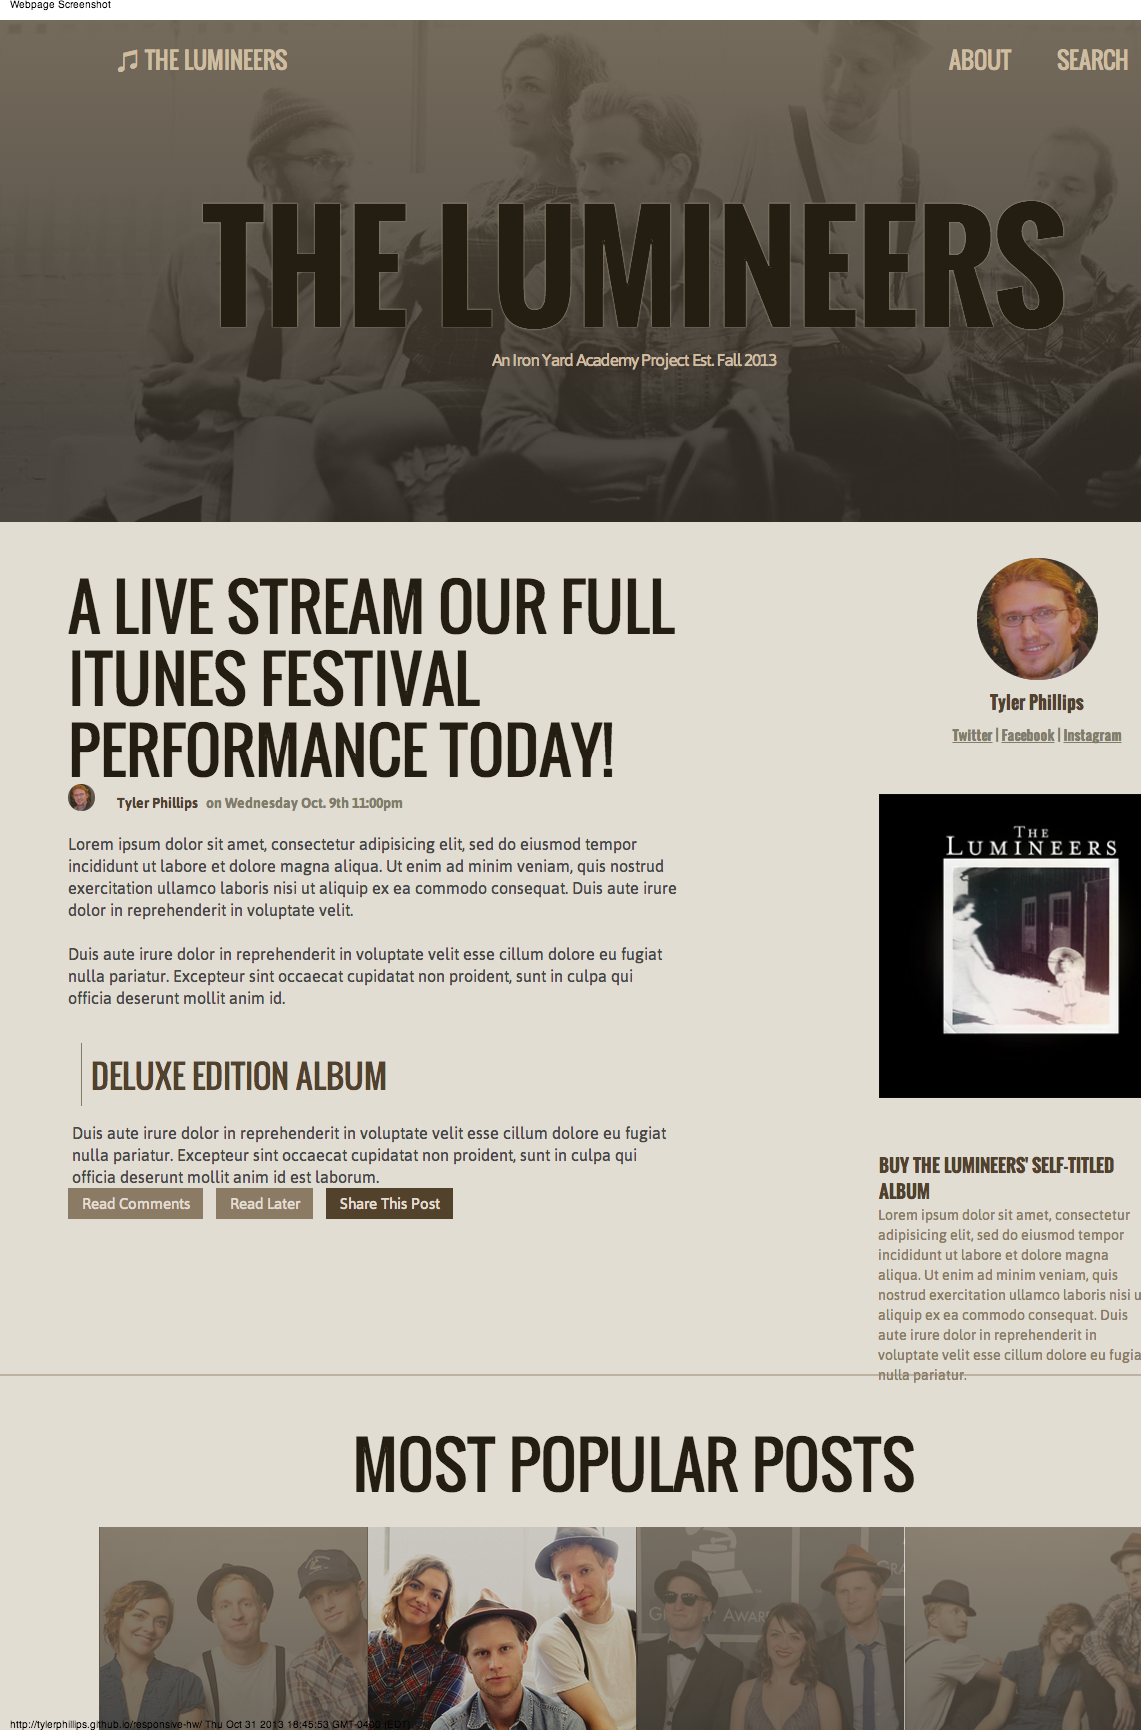
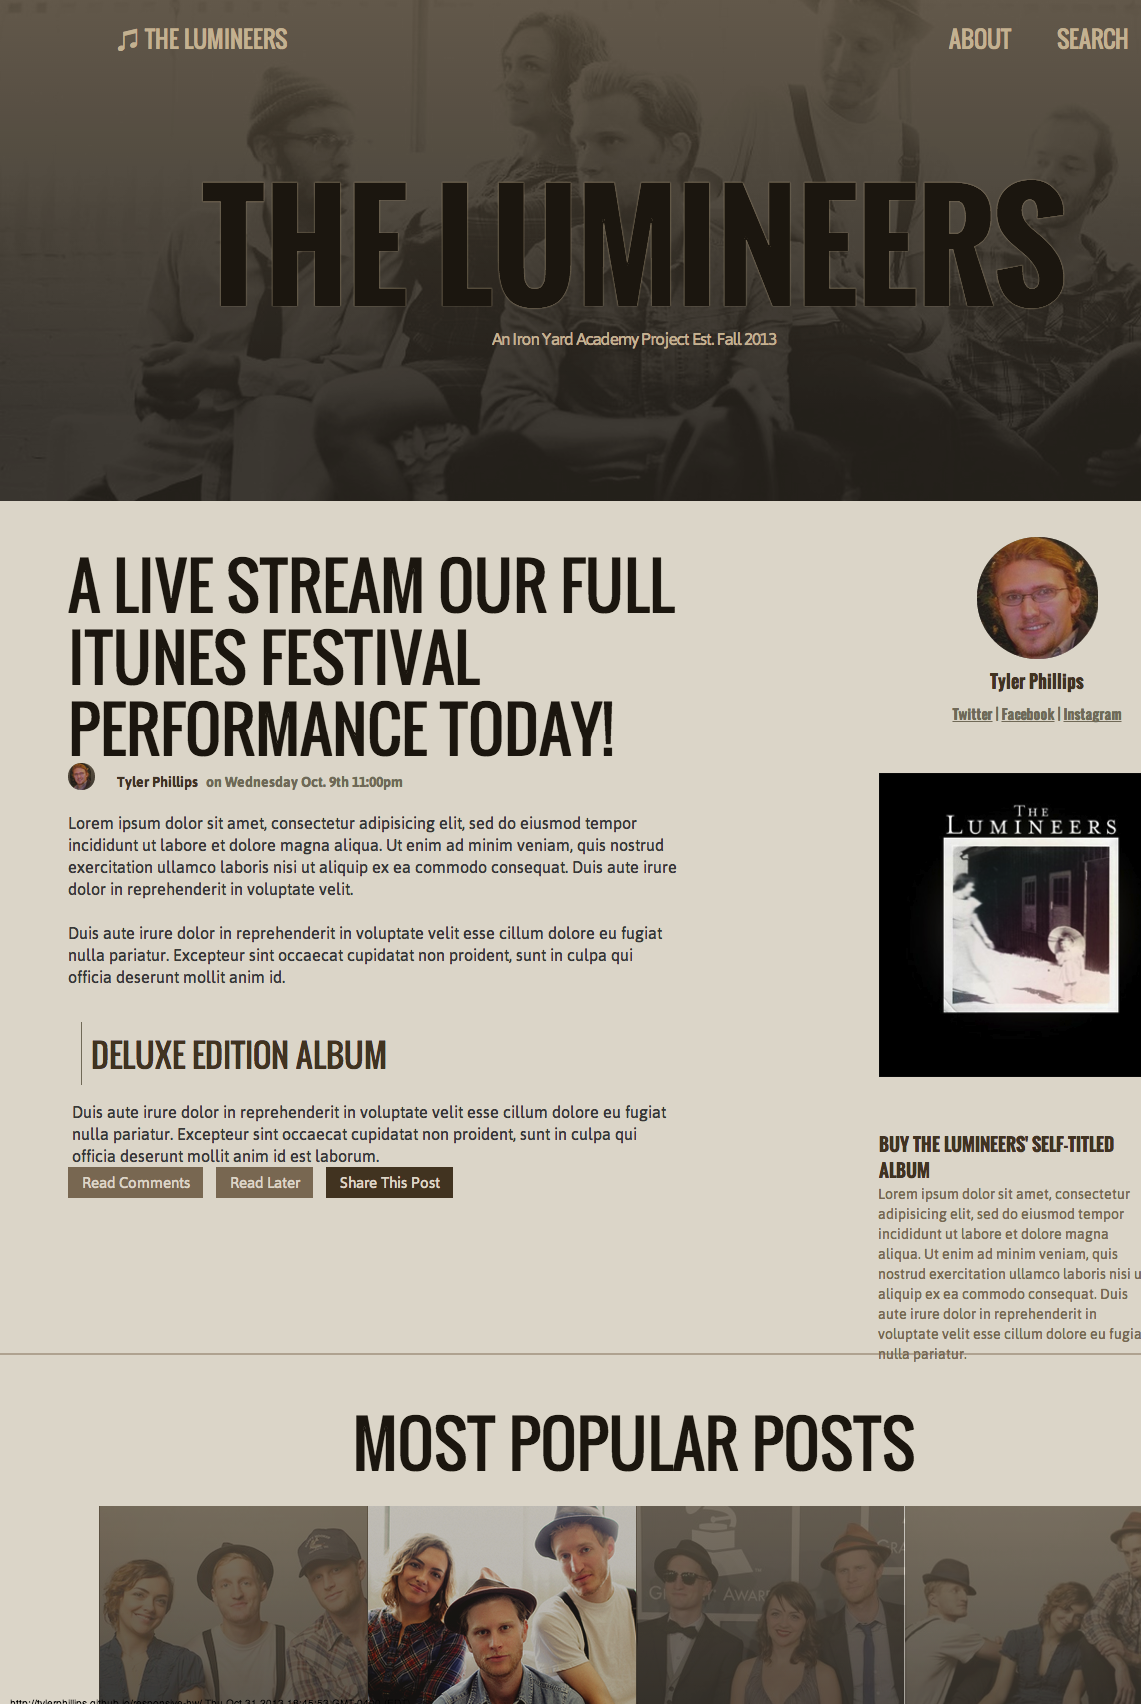
Added web examples

diff --git a/app/index.html b/app/index.html
@@ -13,6 +13,7 @@
         <!-- build:css(.tmp) styles/main.css -->
         <link rel="stylesheet" href="styles/main.css">
         <link rel="stylesheet" href="styles/mystyles.css">
+        <link rel="stylesheet" href="styles/userprofile.css">
         <!-- endbuild -->
         <link href='http://fonts.googleapis.com/css?family=Varela+Round' rel='stylesheet' type='text/css'>
 
@@ -30,8 +31,10 @@
             
 
             <div class="jumbotron">
+                <div class="cover">
                 <h1>Tyler Phillips</h1>
-                <img src="images/tylerphillips.jpg" class="avatar">
+              </div>
+                <!-- <img src="images/tylerphillips.jpg" class="avatar"> -->
                                 <p class="get-in-touch">The easiest way to contact me is through email at</p>
 
                                 <a href="tylerphillips@gmail.com" class="email">tylerfphillips@gmail.com</a>
@@ -63,7 +66,25 @@
                         <h4 class="modal-title" id="myModalLabel"><img src="images/irylogo.png" class="irylogo"><!-- <p>Iron Yard Projects</p> --></h4>
                       </div>
                       <div class="modal-body">
-                        <div class="content">
+                        The following projects were completed during my time at the Iron Yard and can all be found on Github.
+                        <ul class="slide-list">
+                          <li>
+                            <img alt="Spotify Visual Lyrics" src="images/finalproject.png" />
+                          </li>
+                          <li>
+                            <img alt="The Lumineers Responsive CSS" src="images/TheLumineersResponsiveCSS.png" />
+                          </li>
+                          <li>
+                            <img alt="Mobber CSS Practice" src="images/Mobber.png" />
+                          </li>
+                          <li>
+                            <img alt="Git-Smack Chat Program" src="images/chatprogram.png" />
+                          </li>
+                          <li>
+                            <img alt="Celebrity Matchmaker Application" src="images/Celebrity-Match.png" />
+                          </li>
+                        </ul>
+                        <!-- <div class="content">
                             <div id="my-projects">
                               <a href="https://github.com/tylerphillips/final-project"> <img src="images/finalproject.png" alt="Spotify Visual Lyrics" class="final-project"><p class="project-titles">Spotify Visual Lyrics</p></a>
                               <a href="https://github.com/tylerphillips/responsive-hw"> <img src="images/TheLumineersResponsiveCSS.png" alt="The Lumineers Responsive Work" class="responsive-hw"><p class="project-titles">The Lumineers Responsive Work</p></a>
@@ -71,16 +92,18 @@
                               <a href="#"> <img src="images/chatprogram.png" alt="Git-Smack Chat App" class="git-smack"><p class="project-titles">Git-Smack Chat App</p></a>
                               <a href="https://github.com/alisonelizabeth/matchmakerApp"> <img src="images/Celebrity-Match.png" alt="Celebrity Matchmaker App" class="matchmaker"><p class="project-titles">Celebrity Matchmaker App</p></a>
                             </div>
-                        </div>
+                        </div> -->
                       </div>
                       <div class="modal-footer">
                         <button type="button" class="btn btn-primary btn-lg" data-dismiss="modal">Close</button>
                       </div>
+
                     </div><!-- /.modal-content -->
                   </div><!-- /.modal-dialog -->
                 </div><!-- /.modal -->
-            </div>
 
+            </div>
+            
             <!-- <div class="content">
                 <div id="my-projects">
                   <a href="https://github.com/tylerphillips/final-project"> <img src="images/finalproject.png" alt="Spotify Visual Lyrics" class="final-project"><p>Spotify Visual Lyrics</p></a>
@@ -112,8 +135,7 @@
 
         <!-- build:js scripts/main.js -->
         <script src="scripts/main.js"></script>
-        <script src="scripts/jquery.slides.min.js"></script>
-        <script src="scripts/jquery.slides.js"></script>
+        
         
         <!-- endbuild -->
 

diff --git a/app/styles/userprofile.scss b/app/styles/userprofile.scss
@@ -1,0 +1,106 @@
+@import url(http://weloveiconfonts.com/api/?family=typicons);
+
+$black: #444444;
+$black1: lighten($black, 10%);
+$black2: lighten($black, 20%);
+$black3: lighten($black, 30%);
+$black5: lighten($black, 50%);
+$black6: lighten($black, 60%);
+$black7: lighten($black, 70%);
+$black8: lighten($black, 80%);
+$black9: lighten($black, 90%);
+$black0: lighten($black, 100%);
+
+$blue1: #52edc7;
+$blue2: #5ac8fb;
+
+// $pad: 25px;
+// $serif: georgia, serif;
+// $sans-serif: helvetica, sans-serif;
+$font-icon: "fontello";
+
+* {
+  margin: 0;
+  padding: 0;
+  // box-sizing:border-box;
+}
+
+html {
+  font-size: 16px;
+}
+
+body {
+  background: $black6;
+  // font-family: $serif;
+}
+
+.wrap {
+  position: absolute;
+  top: 50%;
+  left: 50%;
+  // translate(-50%, -50%);
+  width: 90%;
+  max-width: 300px;
+  background: $black0;
+  box-shadow: (0px 0px 50px $black);
+}
+
+.cover {
+  border-radius: 7px 7px 0px 0px;
+  width: 700px;
+  left: -60px;
+  top: 0px;
+  position: relative;
+  height: 250px;
+  // background: url("https://scontent-a.xx.fbcdn.net/hphotos-ash2/379833_2470486410143_1341175300_n.jpg");
+  background: url("https://scontent-a.xx.fbcdn.net/hphotos-frc3/1045249_10200395045707350_69276908_n.jpg");
+  // background: url("https://github.com/tylerphillips/tylerphillips.github.io/blob/master/app/images/tylerphillips.jpg?raw=true");
+  background-size: cover;
+  color: $black0;
+  h1 {
+    display: none;
+    position: absolute;
+    border-radius: 7px 7px 0px 0px;
+    top: -8%;
+    left: 0%;
+    // @include translate(-50%, -50%);
+    width: 100%;
+    height: 100%;
+    background: rgba($black, 0.5);
+    // font-family: $sans-serif;
+    line-height: 5.5;
+    text-align: center;
+    text-transform: uppercase;
+  }
+  &:hover {
+    cursor: pointer;
+    h1 {
+      display: block;
+    }
+  }
+}
+
+.m {
+  position: absolute;
+  top: 200px;
+  left: 50%;
+  // translate(-50%, -50%);
+  height: 100px;
+  width: 100px;
+  border: 5px $black0 solid;
+  border-radius:50px;
+  background-image: (linear-gradient($blue1, $blue2));
+  color: $black0;
+  text-align: center;
+  // font-size: 4rem;
+  line-height: 1.5;
+  .typicons-user:before {
+    font-family: "Typicons";
+  }
+}
+
+p {
+  // margin: 45px $pad $pad;
+  // padding-top: $pad;
+  // font-size: 1rem;
+}

diff --git a/app/scripts/main.js b/app/scripts/main.js
@@ -1,1 +1,24 @@
-console.log('\'Allo \'Allo!');
+$(function () {
+  $('.slide-list').wrap('<div class="slideshow"></div>');
+  $('.slideshow').append('<img alt="" src="" /><div class="img-cap"></div>');
+  $('.slide-list > li:first-child').addClass('active');
+  $('.slideshow > img').each(function() {
+    var $firstImg = $(this).siblings('.slide-list').find('li:first-child').children('img'),
+        $firstImgSrc = $firstImg.attr('src'),
+        $firstImgAlt = $firstImg.attr('alt');
+    $(this).attr('src',$firstImgSrc);
+    $(this).siblings('.img-cap').text($firstImgAlt);
+  });
+  $('.slide-list > li').click(function () {
+    var $this = $(this),
+        $lgImg = $this.parents('.slideshow').children('img'),
+        $lgCap = $this.parents('.slideshow').children('.img-cap'),
+        $whichImg = $this.children('img').attr('src'),
+        $whichAlt = $this.children('img').attr('alt');
+    $lgImg.attr('src', $whichImg);
+    $lgImg.attr('alt', $whichAlt);
+    $lgCap.text($whichAlt);
+    $this.siblings('li').removeAttr('class');
+    $this.addClass('active');
+  });
+});

diff --git a/app/styles/mystyles.scss b/app/styles/mystyles.scss
@@ -150,3 +150,55 @@ a:focus {
 	background-color: #965000;
 	border-color: #854700
 }
+
+// Slideshow
+.slideshow {
+  margin: 20px 0;
+  text-align: center;
+}
+.slideshow ul {
+  background-color: #cd822b;
+  border: 1px solid #000000;
+  display: block;
+  list-style: none outside none;
+  margin: 10px auto;
+  padding: 5px 0;
+  width: 590px;
+}
+.slideshow li {
+  display: inline-block;
+  zoom: 1;
+  *display: inline;
+  background: none repeat scroll 0 0 #FFFFFF;
+  border: 1px solid #000000;
+  margin: 5px;
+  padding: 5px;
+}
+.slideshow li.active, .slideshow li:hover {
+  cursor: pointer;
+  background: none repeat scroll 0 0 #CCCCCC;
+}
+.slideshow li img {
+  border: 1px solid #000000;
+  margin: 5px;
+  width: 80px;
+  height: 53px;
+}
+.slideshow > img {
+  border: 1px solid #000000;
+  width: 800px;
+  min-height: 300px;
+}
+
+.slide-list ul {
+	width: 590px;
+}
+
+.modal-dialog {
+	width: 1040px;
+}
+
+.jumbotron {
+	padding-top: 0px;
+	margin-top: 30px;
+}

diff --git a/app/styles/main.scss b/app/styles/main.scss
@@ -11,7 +11,7 @@ $icon-font-path: "/bower_components/sass-bootstrap/fonts/";
 
 /* Space out content a bit */
 body {
-    padding-top: 20px;
+    padding-top: 0px;
     padding-bottom: 20px;
 }
 
